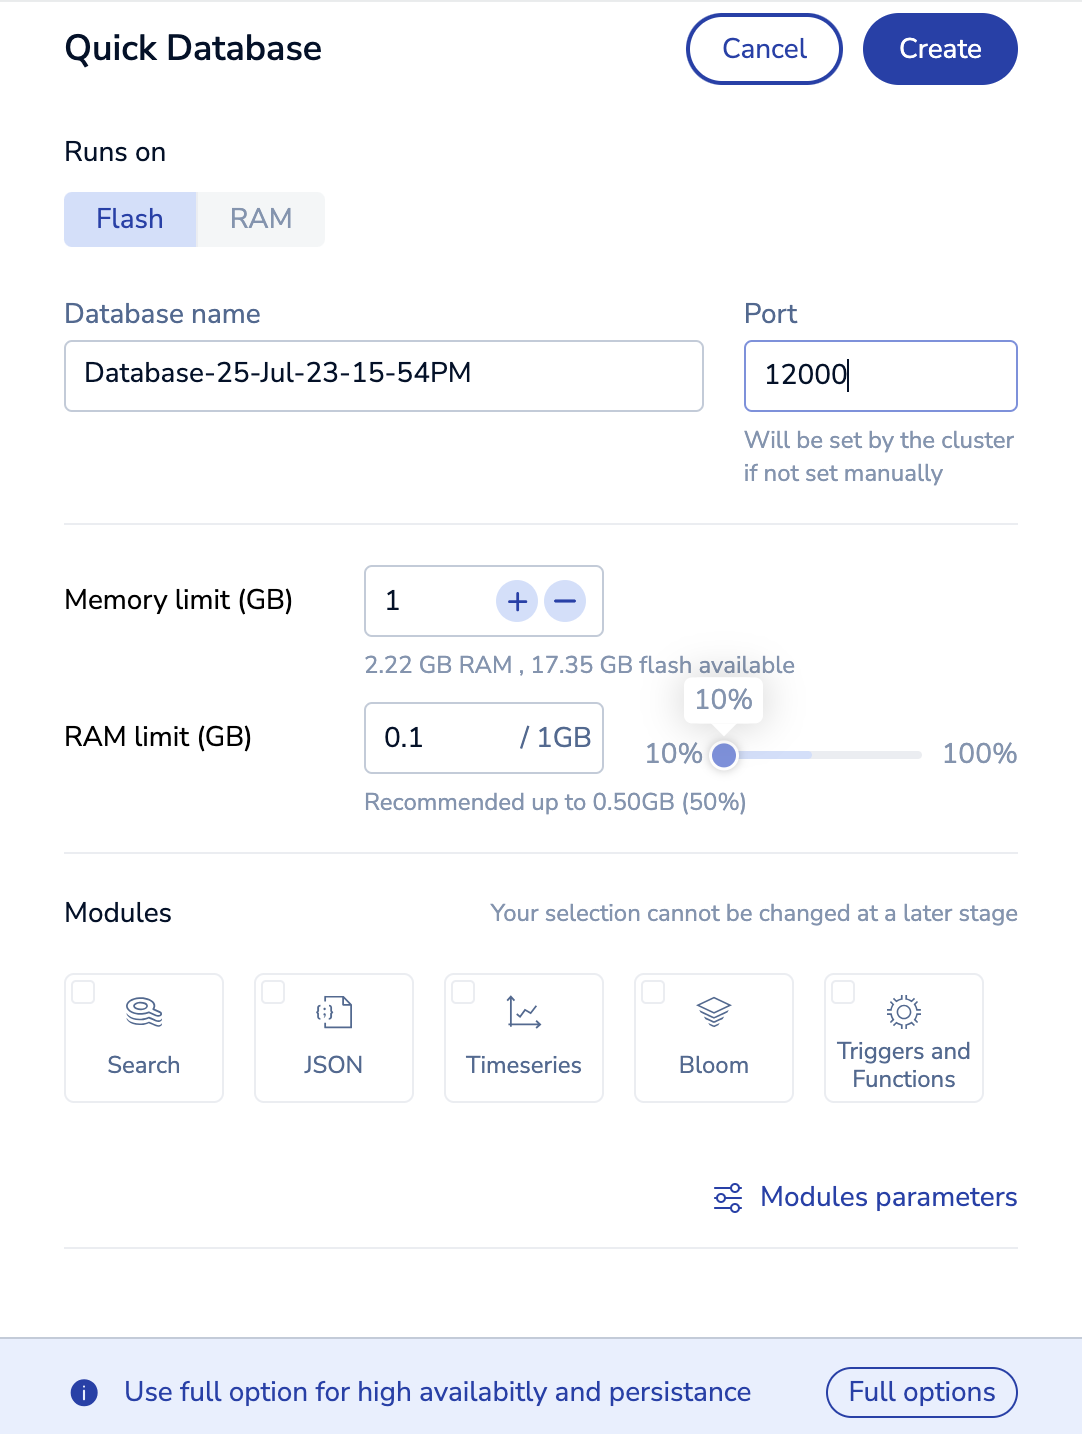
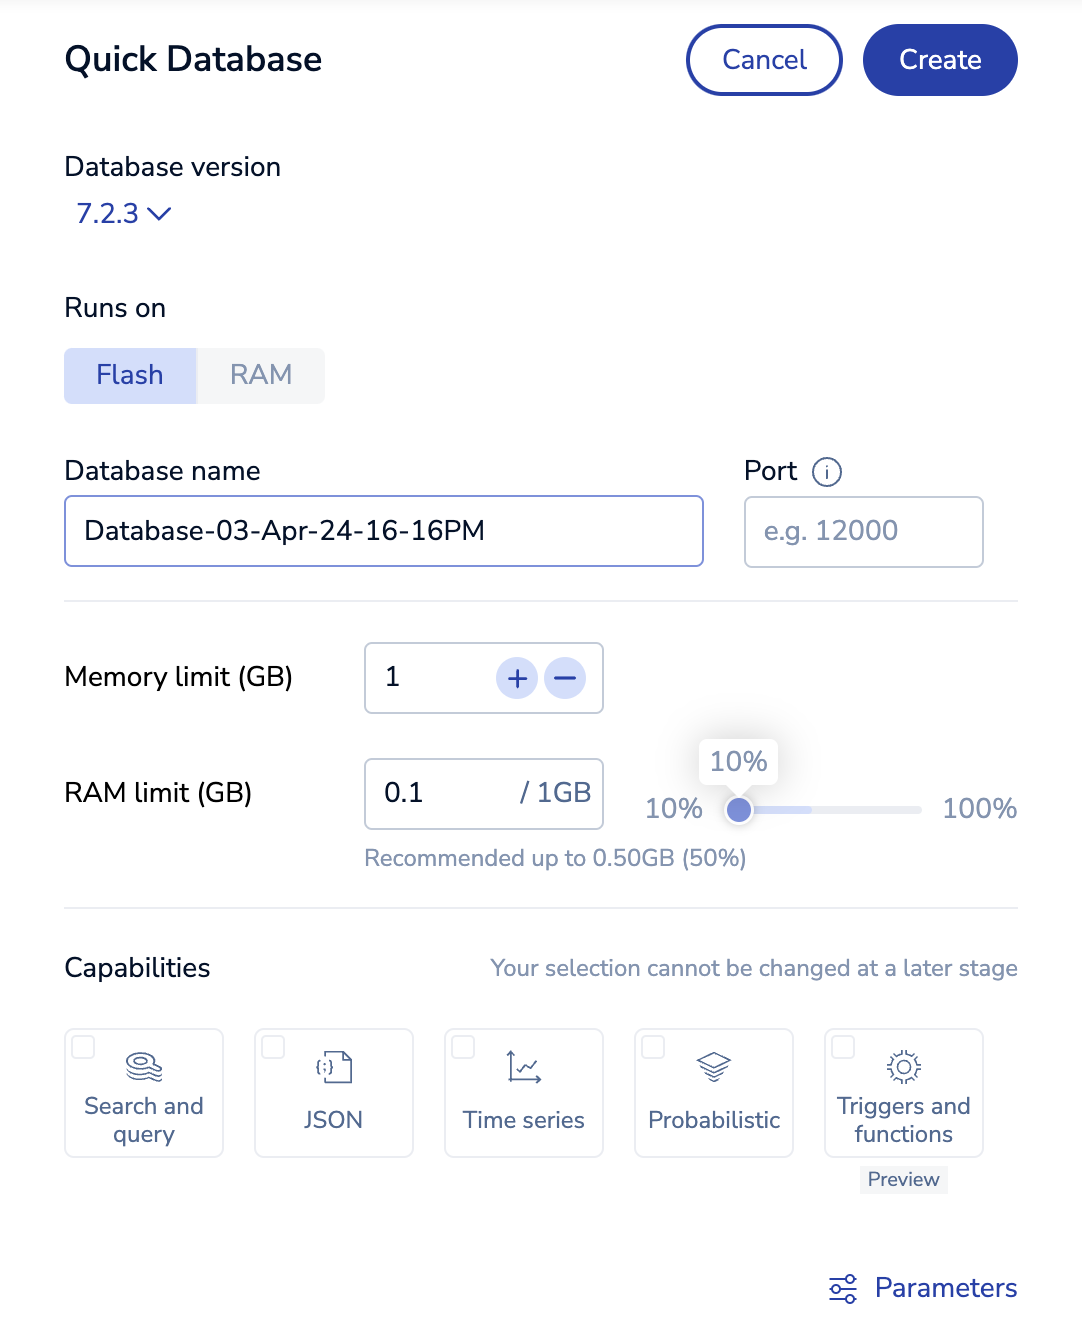
DOC-3592 RS UI lets you choose Redis DB version during database creation

diff --git a/content/operate/rs/databases/active-active/create.md b/content/operate/rs/databases/active-active/create.md
@@ -104,7 +104,9 @@ You cannot add RAM-only clusters and [flash-enabled clusters]({{< relref "/opera
 
 ## Configuration settings
 
-- **Name** - The database name requirements are:
+- **Database version** - The Redis version used by your database.
+
+- **Database name** - The database name requirements are:
 
     - Maximum of 63 characters
 
@@ -114,7 +116,7 @@ You cannot add RAM-only clusters and [flash-enabled clusters]({{< relref "/opera
 
     - Case-sensitive
 
-- **Endpoint port number** - You can define the port number that clients use to connect to the database. Otherwise, a port is randomly selected.
+- **Port** - You can define the port number that clients use to connect to the database. Otherwise, a port is randomly selected.
 
     {{< note >}}
 You cannot change the [port number]({{< relref "/operate/rs/networking/port-configurations.md" >}})

diff --git a/content/operate/rs/databases/create.md b/content/operate/rs/databases/create.md
@@ -43,6 +43,8 @@ To quickly create a database and skip additional configuration options during in
 
 1. On the **Databases** screen, select **Quick database**.
 
+1. Select a Redis version from the **Database version** list.
+
 1. Configure settings that are required for database creation but can be changed later:
 
     - Database name
@@ -82,6 +84,8 @@ To create a new database and configure additional settings:
     {{<note>}}
 For Active-Active databases, see [Create an Active-Active geo-replicated database]({{< relref "/operate/rs/databases/active-active/create" >}}).
     {{</note>}}
+
+1. Select a Redis version from the **Database version** list.
 
 1. Enter a **Database name**.
 
